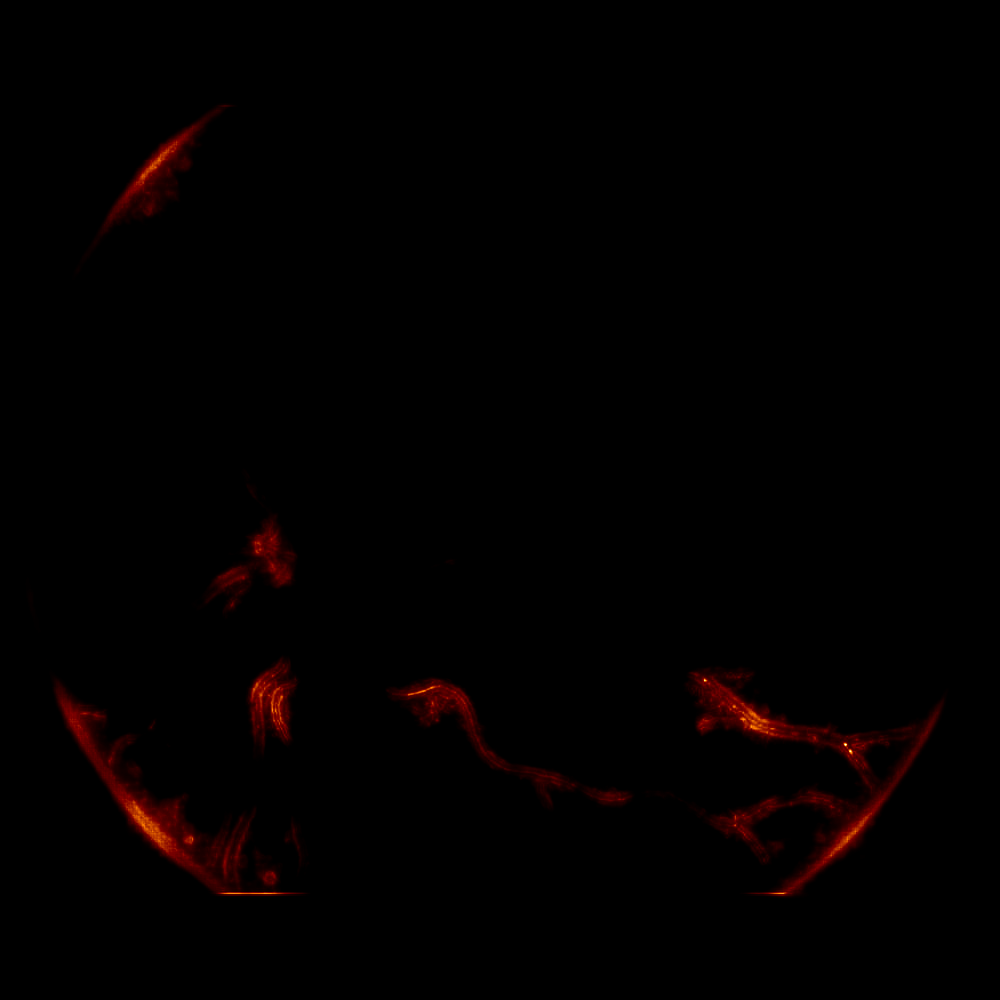
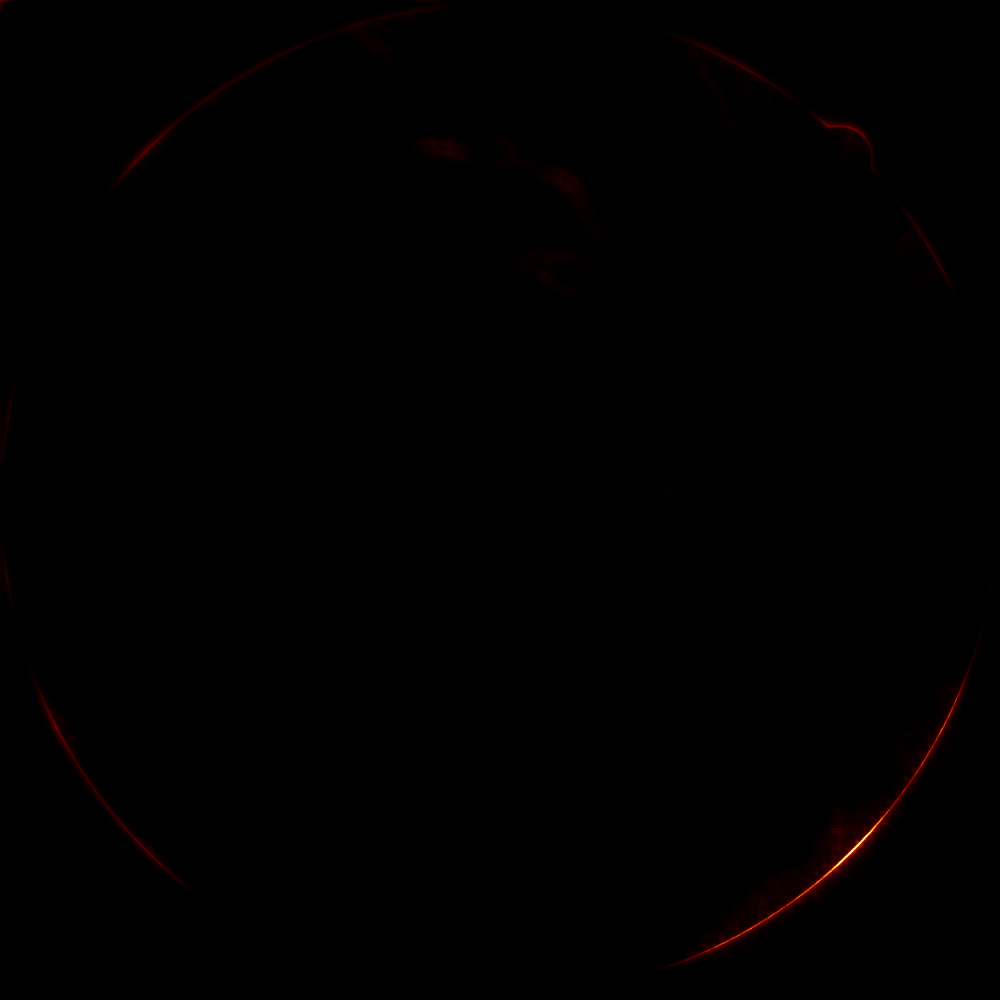
changed styling , lrp accepts multiple file uploads

diff --git a/templates/lrp.html b/templates/lrp.html
@@ -13,7 +13,7 @@
 <body> <!-- Change background color to blue-100 -->
     <header class="header" >
         <a href="#" class="logo">
-            <img src="{{ url_for('static', filename='generate-a-logo-for-explainable-ai-m87GIC2KCI-watermarked.png') }}" alt="logo">
+            <img src="{{ url_for('static', filename='banner2.gif') }}" alt="logo">
         </a>
         <nav class="navbar">
             <a href="./">home</a>
@@ -22,7 +22,7 @@
             <a href="./process_image">OCR</a>
             <a href="./about_trees">Trees</a>
             <a href="./lrp"  class="active">LRP</a>
-            <a href="./contact.html">contact</a>
+            <a href="./contact">contact</a>
             <a href="./blog">blog</a>
         </nav>
     
@@ -32,7 +32,8 @@
             <h1 class="white-text">Layer Wise Relevance Propagation</h1>
             <form method="POST" enctype="multipart/form-data" action="/upload">
                 <div>
-                    <input class="form-control" type="file" name="file">
+                    <!-- Add the 'multiple' attribute to allow multiple image selection -->
+                    <input class="form-control" type="file" name="files[]" multiple>
                 </div>
                 <button class="btn btn-primary" type="submit">Upload</button>
             </form>
@@ -56,6 +57,12 @@
             {% endif %}
         </div>
     </section>
+        <h1 class="image-caption white-text">True label for left eye : {{ pred_left }}</h1> 
+        <h1 class="image-caption white-text">True label for right eye : {{ pred_right }}</h1>
+        <h1 class="image-caption white-text">Accuracy of the model : 81.3 %</h1>
+    <section>
+
+    </section>
 
    <section class="footer">
     <div class="search">
@@ -71,13 +78,13 @@
         <a href="#chatbot">chatbot</a>
         <a href="#form">model</a>
         <a href="#ocr">review</a>
-        <a href="#trees">contact</a>
-        <a href="#lrp">blog</a>
+        <a href="#trees">trees</a>
+        <a href="#lrp">lrp</a>
         <a href="#blog">blog</a>
-        <a href="#contact">blog</a>
+        <a href="#contact">contact</a>
     </div>
     <div class="credit">
-        creaated by <span>Nizami Sevindi</span> | all rights reserved!
+        creaated by <span>Aryan Kamani, Athul Srivatsava, Daksh Agiwal</span> | all rights reserved!
     </div>
 </section>
 <!-- -------------------------------------------FOOTER SECTION -->

diff --git a/templates/blog.html b/templates/blog.html
@@ -23,7 +23,7 @@
     <!-------------------------------------------- HEADER SECTION -->
     <header class="header" >
         <a href="#" class="logo">
-            <img src="{{ url_for('static', filename='generate-a-logo-for-explainable-ai-m87GIC2KCI-watermarked.png') }}" alt="logo">
+            <img src="{{ url_for('static', filename='banner2.gif') }}" alt="logo">
         </a>
         <nav class="navbar">
             <a href="./">home</a>
@@ -69,7 +69,8 @@
                          They create a tree-like structure of decisions based on input features to make predictions or classify data.
                         We find that decision trees are very transparent in the way they are being computed, as we can clearly see each node making a decsion that leads to the final prediction.
                     We use OCR (Optical Character Recognition) on the decsion tree generated after training the model. We extract all the decsions made by the tree and using an algorithm, 
-                    lead to a conclusion as to what features lead to the prediction of the model. </div>
+                    lead to a conclusion as to what features lead to the prediction of the model. Similarly we pply the same concept to Random Forest Classifier.
+                Multiple decision trees can be generated and </div>
                 </div>
             </div>
         </div>
@@ -92,10 +93,10 @@
             <a href="#chatbot">chatbot</a>
             <a href="#form">model</a>
             <a href="#ocr">review</a>
-            <a href="#trees">contact</a>
-            <a href="#lrp">blog</a>
+            <a href="#trees">trees</a>
+            <a href="#lrp">lrp</a>
             <a href="#blog">blog</a>
-            <a href="#contact">blog</a>
+            <a href="#contact">contact</a>
         </div>
         <div class="credit">
             creaated by <span>Aryan Kamani, Athul Srivatsava, Daksh Agiwal</span> | all rights reserved!

diff --git a/templates/contact.html b/templates/contact.html
@@ -14,7 +14,7 @@
     <!-------------------------------------------- HEADER SECTION -->
     <header class="header" >
         <a href="#" class="logo">
-            <img src="{{ url_for('static', filename='pngegg.png') }}" alt="logo">
+            <img src="{{ url_for('static', filename='banner2.gif') }}" alt="logo">
         </a>
         <nav class="navbar">
             <nav class="navbar">
@@ -71,12 +71,13 @@
         </div>
         <div class="links">
             <a href="#home">home</a>
-            <a href="#about">about</a>
-            <a href="#chatbot">menu</a>
-            <a href="#model">products</a>
-            <a href="#review">review</a>
-            <a href="#contact">contact</a>
+            <a href="#chatbot">chatbot</a>
+            <a href="#form">model</a>
+            <a href="#ocr">review</a>
+            <a href="#trees">trees</a>
+            <a href="#lrp">lrp</a>
             <a href="#blog">blog</a>
+            <a href="#contact">contact</a>
         </div>
         <div class="credit">
             creaated by <span>Aryan Kamani, Athul Srivatsava, Daksh Agiwal</span> | all rights reserved!

diff --git a/templates/index.html b/templates/index.html
@@ -14,7 +14,7 @@
     <!-------------------------------------------- HEADER SECTION -->
     <header class="header" >
         <a href="#" class="logo">
-            <img src="{{ url_for('static', filename='pngegg.png') }}" alt="logo">
+            <img src="{{ url_for('static', filename='banner2.gif') }}" alt="logo">
         </a>
         <nav class="navbar">
             <nav class="navbar">
@@ -59,12 +59,13 @@
         </div>
         <div class="links">
             <a href="#home">home</a>
-            <a href="#about">about</a>
-            <a href="#chatbot">menu</a>
-            <a href="#model">products</a>
-            <a href="#review">review</a>
-            <a href="#contact">contact</a>
+            <a href="#chatbot">chatbot</a>
+            <a href="#form">model</a>
+            <a href="#ocr">review</a>
+            <a href="#trees">trees</a>
+            <a href="#lrp">lrp</a>
             <a href="#blog">blog</a>
+            <a href="#contact">contact</a>
         </div>
         <div class="credit">
             creaated by <span>Nizami Sevindi</span> | all rights reserved!

diff --git a/templates/result.html b/templates/result.html
@@ -14,7 +14,7 @@
 <body>
     <header class="header" >
         <a href="#" class="logo">
-            <img src="{{ url_for('static', filename='generate-a-logo-for-explainable-ai-m87GIC2KCI-watermarked.png') }}" alt="logo">
+            <img src="{{ url_for('static', filename='banner2.gif') }}" alt="logo">
         </a>
         <nav class="navbar">
             <a href="./index.html">home</a>
@@ -80,12 +80,13 @@
         </div>
         <div class="links">
             <a href="#home">home</a>
-            <a href="#about">about</a>
             <a href="#chatbot">chatbot</a>
-            <a href="#model">model</a>
-            <a href="#review">review</a>
-            <a href="#contact">contact</a>
+            <a href="#form">model</a>
+            <a href="#ocr">review</a>
+            <a href="#trees">trees</a>
+            <a href="#lrp">lrp</a>
             <a href="#blog">blog</a>
+            <a href="#contact">contact</a>
         </div>
         <div class="credit">
             creaated by <span>Aryan Kamani, Athul Srivatsava, Daksh Agiwal</span> | all rights reserved!

diff --git a/templates/model.html b/templates/model.html
@@ -15,7 +15,7 @@
     <!-------------------------------------------- HEADER SECTION -->
     <header class="header" >
         <a href="#" class="logo">
-            <img src="{{ url_for('static', filename='generate-a-logo-for-explainable-ai-m87GIC2KCI-watermarked.png') }}" alt="logo">
+            <img src="{{ url_for('static', filename='banner2.gif') }}" alt="logo">
         </a>
         <nav class="navbar">
             <a href="./">home</a>
@@ -69,10 +69,10 @@
             <a href="#chatbot">chatbot</a>
             <a href="#form">model</a>
             <a href="#ocr">review</a>
-            <a href="#trees">contact</a>
-            <a href="#lrp">blog</a>
+            <a href="#trees">trees</a>
+            <a href="#lrp">lrp</a>
             <a href="#blog">blog</a>
-            <a href="#contact">blog</a>
+            <a href="#contact">contact</a>
         </div>
         <div class="credit">
             creaated by <span>Aryan Kamani, Athul Srivatsava, Daksh Agiwal</span> | all rights reserved!

diff --git a/templates/ocr_input.html b/templates/ocr_input.html
@@ -13,7 +13,7 @@
 <body>
     <header class="header" >
         <a href="#" class="logo">
-            <img src="{{ url_for('static', filename='generate-a-logo-for-explainable-ai-m87GIC2KCI-watermarked.png') }}" alt="logo">
+            <img src="{{ url_for('static', filename='banner2.gif') }}" alt="logo">
         </a>
         <nav class="navbar">
             <a href="./">home</a>
@@ -51,12 +51,13 @@
     </div>
     <div class="links">
         <a href="#home">home</a>
-        <a href="#about">about</a>
         <a href="#chatbot">chatbot</a>
-        <a href="#model">model</a>
-        <a href="#review">review</a>
-        <a href="#contact">contact</a>
+        <a href="#form">model</a>
+        <a href="#ocr">review</a>
+        <a href="#trees">trees</a>
+        <a href="#lrp">lrp</a>
         <a href="#blog">blog</a>
+        <a href="#contact">contact</a>
     </div>
     <div class="credit">
         creaated by <span>Aryan Kamani, Athul Srivatsava, Daksh Agiwal</span> | all rights reserved!

diff --git a/templates/about_trees.html b/templates/about_trees.html
@@ -14,7 +14,7 @@
 <body>
     <header class="header" >
         <a href="#" class="logo">
-            <img src="{{ url_for('static', filename='generate-a-logo-for-explainable-ai-m87GIC2KCI-watermarked.png') }}" alt="logo">
+            <img src="{{ url_for('static', filename='banner2.gif') }}" alt="logo">
         </a>
         <nav class="navbar">
             <a href="./">home</a>

diff --git a/static/style.css b/static/style.css
@@ -436,7 +436,7 @@ a{
 /* ------------------------------------------CONTACT SECTION */
 .contact .row{
     display: flex;
-    background-color: var(--black-color);
+    background-color:blue ;
     flex-wrap: wrap;
     gap: 1rem;
 }

diff --git a/app.py b/app.py
@@ -137,8 +137,6 @@ def process_image():
             X_test=extract_attributes_from_image(temp_image_path)
 
             # Clean up the temporary image file
-            
-
             X_test=np.array(X_test)
             with open("sample.txt", "w") as output_file:
                 y_pred = explain_predict([X_test], loaded_model, output_file)
@@ -188,7 +186,7 @@ def upload():
         default="./output/",
     )
     parser.add_argument(
-        "-b", "--batch-size", dest="batch_size", help="Batch size.", default=2, type=int
+        "-b", "--batch-size", dest="batch_size", help="Batch size.", default=1, type=int
     )
     parser.add_argument(
         "-d",
@@ -220,44 +218,60 @@ def upload():
 
     pathlib.Path(config.output_dir).mkdir(parents=True, exist_ok=True)
     
-    if 'file' not in request.files:
+    if 'files[]' not in request.files:
         return redirect(url_for('lrp'))
 
-    file = request.files['file']
-
-    if file.filename == '':
-        return redirect(url_for('lrp'))
+    uploaded_files = request.files.getlist('files[]')
+    print(uploaded_files)
+    for file in uploaded_files:
+        if file.filename != '':
+            # Save the uploaded file to the UPLOAD_FOLDER
+            file.save(os.path.join(app.config['INPUT_FOLDER'], file.filename))
+    #return redirect(url_for('lrp'))
 
     if file:
         # Save the uploaded file to the INPUT_FOLDER
-        input_folder_list = os.listdir(app.config['INPUT_FOLDER'])
-        if len(input_folder_list) > 2:
-            for i in range(len(input_folder_list)):
-                os.remove(os.path.join("input/cats",input_folder_list[i]))
-                
-        print(input_folder_list)
-        input_filename = os.path.join(app.config['INPUT_FOLDER'], file.filename)
-        file.save(input_filename)
-        # Perform transformations on the image (example: resizing)
-        transformed_image = per_image_lrp(config)
         
+        
+
+        input_folder_list = sorted(os.listdir(app.config['INPUT_FOLDER']), key=lambda x: os.path.getctime(os.path.join(app.config['INPUT_FOLDER'], x)))
+        
+        len_list = len(input_folder_list)
+        delete_folder_list = input_folder_list[:(len_list-2)]
+        for i in range(len(delete_folder_list)):
+                os.remove(os.path.join("input/cats",delete_folder_list[i]))
+                
+        input_folder_list = sorted(os.listdir(app.config['INPUT_FOLDER']), key=lambda x: os.path.getctime(os.path.join(app.config['INPUT_FOLDER'], x)))
+        # Perform transformations on the image (example: resizing)
+        transformed_image_list = per_image_lrp(config)
+        
+        for i in range(len(transformed_image_list)):
+            transformed_image_list[i] = transformed_image_list[i].detach().cpu().numpy()
+            
+        print(transformed_image_list)
         # Save the transformed image to the OUTPUT_FOLDER
-        transformed_image = transformed_image.detach().cpu().numpy()
-        original_image = plt.imread(os.path.join(app.config['INPUT_FOLDER'], file.filename))
-        pred = final_dr_pred(os.path.join(app.config['OUTPUT_FOLDER'], 'original_image.png'),os.path.join(app.config['OUTPUT_FOLDER'], 'transformed_image.png'))
-        plt.imsave(os.path.join(app.config['OUTPUT_FOLDER'], 'original_image.png'), original_image)
-        plt.imsave(os.path.join(app.config['OUTPUT_FOLDER'], 'transformed_image.png'), transformed_image, cmap='afmhot')
+        original_image_1 = plt.imread(os.path.join(app.config['INPUT_FOLDER'], input_folder_list[0]))
+        original_image_2 = plt.imread(os.path.join(app.config['INPUT_FOLDER'], input_folder_list[1]))
+        
+        plt.imsave(os.path.join(app.config['OUTPUT_FOLDER'], 'original_image_left.png'), original_image_1)
+        plt.imsave(os.path.join(app.config['OUTPUT_FOLDER'], 'original_image_right.png'), original_image_2)
+        plt.imsave(os.path.join(app.config['OUTPUT_FOLDER'], 'transformed_image_left.png'), transformed_image_list[0], cmap='afmhot')
+        plt.imsave(os.path.join(app.config['OUTPUT_FOLDER'], 'transformed_image_right.png'), transformed_image_list[1], cmap='afmhot')
+        
+        pred=final_dr_pred(original_image_1,original_image_2)
+        pred = pred[0]
+        pred_left , pred_right = pred
         images = []
         output_folder = 'static'
         for filename in os.listdir(output_folder):
-            if filename=='original_image.png':
+            if filename=='original_image_left.png' or filename=='original_image_right.png':
                 images.append(os.path.join(output_folder, filename))
         for filename in os.listdir(output_folder):
-            if filename=='transformed_image.png':
+            if filename=='transformed_image_left.png' or filename=='transformed_image_right.png':
                 images.append(os.path.join(output_folder, filename))
         print(images)
         
-        return render_template('lrp.html', images=images, pred = pred)
+        return render_template('lrp.html', images=images, pred_left=pred_left, pred_right=pred_right)
 
 @app.route('/output/<filename>')
 def output_file(filename):
@@ -334,16 +348,17 @@ def per_image_lrp(config: argparse.Namespace) -> None:
     model.to(device)
 
     lrp_model = LRPModel(model=model, top_k=config.top_k)
-
+    output = []
     for i, (x, y) in enumerate(data_loader):
         x = x.to(device)
         # y = y.to(device)  # here not used as method is unsupervised.
 
         t0 = time.time()
         r = lrp_model.forward(x)
+        output.append(r)
         print("{time:.2f} FPS".format(time=(1.0 / (time.time() - t0))))
 
-    return r
+    return output
 
 if __name__ == '__main__':
     app.run(debug=True)

diff --git a/kamani_inference.py b/kamani_inference.py
@@ -150,11 +150,7 @@ def make_prediction(model, input):
         preds.append(predictions.cpu().numpy())
     return preds
 
-def final_dr_pred(left_eye_path,right_eye_path):
-    left_eye_image = Image.open(left_eye_path)
-    right_eye_image = Image.open(right_eye_path)
-    left_eye_image = np.array(left_eye_image)
-    right_eye_image = np.array(right_eye_image)
+def final_dr_pred(left_eye_image,right_eye_image):
 
 
     left_eye_image = val_transforms(image=left_eye_image)["image"]
